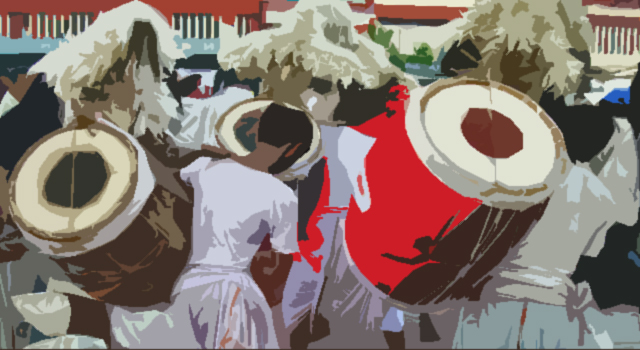
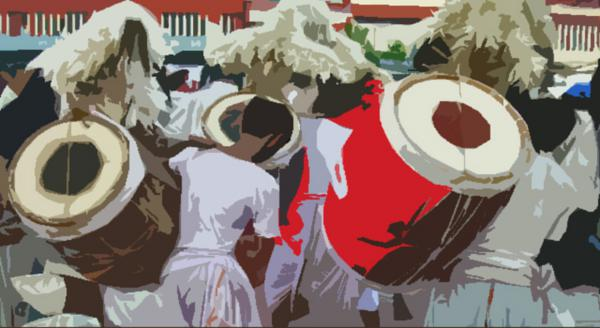
Reduces image sizes for faster load

diff --git a/assets/css/freelancer.min.css b/assets/css/freelancer.min.css
@@ -2,4 +2,4 @@
  * Start Bootstrap - Freelancer v3.3.7+1 (http://startbootstrap.com/template-overviews/freelancer)
  * Copyright 2013-2016 Start Bootstrap
  * Licensed under MIT (https://github.com/BlackrockDigital/startbootstrap/blob/gh-pages/LICENSE)
- */body{font-family:Lato,'Helvetica Neue',Helvetica,Arial,sans-serif;overflow-x:hidden}p{font-size:20px}p.small{font-size:16px}a,a.active,a:active,a:focus,a:hover{color:#18BC9C;outline:0}h1,h2,h3,h4,h5,h6{font-family:Montserrat,"Helvetica Neue",Helvetica,Arial,sans-serif;text-transform:uppercase;font-weight:700}hr.star-light,hr.star-primary{padding:0;border:none;border-top:solid 5px;text-align:center;max-width:250px;margin:25px auto 30px}hr.star-light:after,hr.star-primary:after{content:"\f005";font-family:FontAwesome;display:inline-block;position:relative;top:-.8em;font-size:2em;padding:0 .25em}.navbar-custom,header .intro-text .name{font-family:Montserrat,"Helvetica Neue",Helvetica,Arial,sans-serif;text-transform:uppercase}hr.star-light{border-color:#fff}hr.star-light:after{background-color:#18BC9C;color:#fff}hr.star-primary{border-color:#2C3E50}hr.star-primary:after{background-color:#fff;color:#2C3E50}.navbar-custom .navbar-brand,.navbar-custom .navbar-brand.active,.navbar-custom .navbar-brand:active,.navbar-custom .navbar-brand:focus,.navbar-custom .navbar-brand:hover,.navbar-custom .navbar-nav li a,header{color:#fff}.img-centered{margin:0 auto}header{text-align:center;background:#18BC9C}header .container{padding-top:50px;padding-bottom:50px}header img{display:block;margin:0 auto 20px}header .intro-text .name{display:block;font-weight:700;font-size:2em}header .intro-text .skills{font-size:1.25em;font-weight:300}@media (min-width:768px){header .container{padding-top:200px;padding-bottom:100px}header .intro-text .name{font-size:4.75em}header .intro-text .skills{font-size:1.75em}}.navbar-custom{background:#2C3E50;font-weight:700;border:none}.navbar-custom a:focus{outline:0}.navbar-custom .navbar-nav{letter-spacing:1px}.navbar-custom .navbar-nav li a:hover{color:#18BC9C;outline:0}.navbar-custom .navbar-nav li a:active,.navbar-custom .navbar-nav li a:focus{color:#fff}.navbar-custom .navbar-nav li.active a,.navbar-custom .navbar-nav li.active a:active,.navbar-custom .navbar-nav li.active a:focus,.navbar-custom .navbar-nav li.active a:hover{color:#fff;background:#18BC9C}.navbar-custom .navbar-toggle{color:#fff;text-transform:uppercase;font-size:10px;border-color:#fff}.navbar-custom .navbar-toggle:focus,.navbar-custom .navbar-toggle:hover{background-color:#18BC9C;color:#fff;border-color:#18BC9C}@media (min-width:768px){.navbar-custom{padding:25px 0;-webkit-transition:padding .3s;-moz-transition:padding .3s;transition:padding .3s}.navbar-custom .navbar-brand{font-size:2em;-webkit-transition:all .3s;-moz-transition:all .3s;transition:all .3s}.navbar-custom.affix{padding:10px 0}.navbar-custom.affix .navbar-brand{font-size:1.5em}}section{padding:100px 0}section h2{margin:0;font-size:3em}section.success{background:#18BC9C;color:#fff}@media (max-width:767px){section{padding:75px 0}section.first{padding-top:75px}}#portfolio .portfolio-item{margin:0 0 15px;right:0}#portfolio .portfolio-item .portfolio-link{display:block;position:relative;max-width:400px;margin:0 auto}#portfolio .portfolio-item .portfolio-link .caption{background:rgba(24,188,156,.9);position:absolute;width:100%;height:100%;opacity:0;transition:all ease .5s;-webkit-transition:all ease .5s;-moz-transition:all ease .5s}#portfolio .portfolio-item .portfolio-link .caption:hover{opacity:1}#portfolio .portfolio-item .portfolio-link .caption .caption-content{position:absolute;width:100%;height:20px;font-size:20px;text-align:center;top:50%;margin-top:-12px;color:#fff}.btn-social,.scroll-top,.scroll-top .btn{width:50px;height:50px}#portfolio .portfolio-item .portfolio-link .caption .caption-content i{margin-top:-12px}#portfolio .portfolio-item .portfolio-link .caption .caption-content h3,#portfolio .portfolio-item .portfolio-link .caption .caption-content h4{margin:0}#portfolio *{z-index:2}@media (min-width:767px){#portfolio .portfolio-item{margin:0 0 30px}}.floating-label-form-group{position:relative;margin-bottom:0;padding-bottom:.5em;border-bottom:1px solid #eee}.floating-label-form-group input,.floating-label-form-group textarea{z-index:1;position:relative;padding-right:0;padding-left:0;border:none;border-radius:0;font-size:1.5em;background:0 0;box-shadow:none!important;resize:none}.floating-label-form-group label{display:block;z-index:0;position:relative;top:2em;margin:0;font-size:.85em;line-height:1.764705882em;vertical-align:middle;vertical-align:baseline;opacity:0;-webkit-transition:top .3s ease,opacity .3s ease;-moz-transition:top .3s ease,opacity .3s ease;-ms-transition:top .3s ease,opacity .3s ease;transition:top .3s ease,opacity .3s ease}.floating-label-form-group:not(:first-child){padding-left:14px;border-left:1px solid #eee}.floating-label-form-group-with-value label{top:0;opacity:1}.floating-label-form-group-with-focus label{color:#18BC9C}form .row:first-child .floating-label-form-group{border-top:1px solid #eee}footer{color:#fff}footer h3{margin-bottom:30px}footer .footer-above{padding-top:50px;background-color:#2C3E50}footer .footer-col{margin-bottom:50px}footer .footer-below{padding:25px 0;background-color:#233140}.btn-outline{color:#fff;font-size:20px;border:2px solid #fff;background:0 0;transition:all .3s ease-in-out;margin-top:15px}.btn-outline.active,.btn-outline:active,.btn-outline:focus,.btn-outline:hover{color:#18BC9C;background:#fff;border:2px solid #fff}.btn-primary.active,.btn-primary:active,.btn-success.active,.btn-success:active,.open .dropdown-toggle.btn-primary,.open .dropdown-toggle.btn-success{background-image:none}.btn-primary{color:#fff;background-color:#2C3E50;border-color:#2C3E50;font-weight:700}.btn-primary.active,.btn-primary:active,.btn-primary:focus,.btn-primary:hover,.open .dropdown-toggle.btn-primary{color:#fff;background-color:#1a242f;border-color:#161f29}.btn-primary.disabled,.btn-primary.disabled.active,.btn-primary.disabled:active,.btn-primary.disabled:focus,.btn-primary.disabled:hover,.btn-primary[disabled],.btn-primary[disabled].active,.btn-primary[disabled]:active,.btn-primary[disabled]:focus,.btn-primary[disabled]:hover,fieldset[disabled] .btn-primary,fieldset[disabled] .btn-primary.active,fieldset[disabled] .btn-primary:active,fieldset[disabled] .btn-primary:focus,fieldset[disabled] .btn-primary:hover{background-color:#2C3E50;border-color:#2C3E50}.btn-primary .badge{color:#2C3E50;background-color:#fff}.btn-success{color:#fff;background-color:#18BC9C;border-color:#18BC9C;font-weight:700}.btn-success.active,.btn-success:active,.btn-success:focus,.btn-success:hover,.open .dropdown-toggle.btn-success{color:#fff;background-color:#128f76;border-color:#11866f}.btn-success.disabled,.btn-success.disabled.active,.btn-success.disabled:active,.btn-success.disabled:focus,.btn-success.disabled:hover,.btn-success[disabled],.btn-success[disabled].active,.btn-success[disabled]:active,.btn-success[disabled]:focus,.btn-success[disabled]:hover,fieldset[disabled] .btn-success,fieldset[disabled] .btn-success.active,fieldset[disabled] .btn-success:active,fieldset[disabled] .btn-success:focus,fieldset[disabled] .btn-success:hover{background-color:#18BC9C;border-color:#18BC9C}.btn-success .badge{color:#18BC9C;background-color:#fff}.btn-social{display:inline-block;border:2px solid #fff;border-radius:100%;text-align:center;font-size:20px;line-height:45px}.btn.active,.btn:active,.btn:focus{outline:0}.scroll-top{position:fixed;right:2%;bottom:2%;z-index:1049}.scroll-top .btn{font-size:20px;border-radius:100%;line-height:28px}.scroll-top .btn:focus{outline:0}.portfolio-modal .modal-content{border-radius:0;background-clip:border-box;-webkit-box-shadow:none;box-shadow:none;border:none;min-height:100%;padding:100px 0;text-align:center}.portfolio-modal .modal-content h2{margin:0;font-size:3em}.portfolio-modal .modal-content img{margin-bottom:30px}.portfolio-modal .modal-content .item-details{margin:30px 0}.portfolio-modal .close-modal{position:absolute;width:75px;height:75px;background-color:transparent;top:25px;right:25px;cursor:pointer}.portfolio-modal .close-modal:hover{opacity:.3}.portfolio-modal .close-modal .lr{height:75px;width:1px;margin-left:35px;background-color:#2C3E50;transform:rotate(45deg);-ms-transform:rotate(45deg);-webkit-transform:rotate(45deg);z-index:1051}.portfolio-modal .close-modal .lr .rl{height:75px;width:1px;background-color:#2C3E50;transform:rotate(90deg);-ms-transform:rotate(90deg);-webkit-transform:rotate(90deg);z-index:1052}.portfolio-modal .modal-backdrop{opacity:0;display:none}
+ */body{font-family:Lato,'Helvetica Neue',Helvetica,Arial,sans-serif;overflow-x:hidden}p{font-size:20px}p.small{font-size:16px}a,a.active,a:active,a:focus,a:hover{color:#18BC9C;outline:0}h1,h2,h3,h4,h5,h6{font-family:Montserrat,"Helvetica Neue",Helvetica,Arial,sans-serif;text-transform:uppercase;font-weight:700}hr.star-light,hr.star-primary{padding:0;border:none;border-top:solid 5px;text-align:center;max-width:250px;margin:25px auto 30px}hr.star-light:after,hr.star-primary:after{content:"\f005";font-family:FontAwesome;display:inline-block;position:relative;top:-.8em;font-size:2em;padding:0 .25em}.navbar-custom,header .intro-text .name{font-family:Montserrat,"Helvetica Neue",Helvetica,Arial,sans-serif;text-transform:uppercase}hr.star-light{border-color:#fff}hr.star-light:after{background-color:#18BC9C;color:#fff}hr.star-primary{border-color:#2C3E50}hr.star-primary:after{background-color:#fff;color:#2C3E50}.navbar-custom .navbar-brand,.navbar-custom .navbar-brand.active,.navbar-custom .navbar-brand:active,.navbar-custom .navbar-brand:focus,.navbar-custom .navbar-brand:hover,.navbar-custom .navbar-nav li a,header{color:#fff}.img-centered{margin:0 auto}header{text-align:center;background:#18BC9C}header .container{padding-top:50px;padding-bottom:50px}header img{display:block;margin:0 auto 20px}header .intro-text .name{display:block;font-weight:700;font-size:2em}header .intro-text .skills{font-size:1.25em;font-weight:300}@media (min-width:768px){header .container{padding-top:200px;padding-bottom:100px}header .intro-text .name{font-size:4.75em}header .intro-text .skills{font-size:1.75em}}.navbar-custom{background:#2C3E50;font-weight:700;border:none}.navbar-custom a:focus{outline:0}.navbar-custom .navbar-nav{letter-spacing:1px}.navbar-custom .navbar-nav li a:hover{color:#18BC9C;outline:0}.navbar-custom .navbar-nav li a:active,.navbar-custom .navbar-nav li a:focus{color:#fff}.navbar-custom .navbar-nav li.active a,.navbar-custom .navbar-nav li.active a:active,.navbar-custom .navbar-nav li.active a:focus,.navbar-custom .navbar-nav li.active a:hover{color:#fff;background:#18BC9C}.navbar-custom .navbar-toggle{color:#fff;text-transform:uppercase;font-size:10px;border-color:#fff}.navbar-custom .navbar-toggle:focus,.navbar-custom .navbar-toggle:hover{background-color:#18BC9C;color:#fff;border-color:#18BC9C}@media (min-width:768px){.navbar-custom{padding:25px 0;-webkit-transition:padding .3s;-moz-transition:padding .3s;transition:padding .3s}.navbar-custom .navbar-brand{font-size:2em;-webkit-transition:all .3s;-moz-transition:all .3s;transition:all .3s}.navbar-custom.affix{padding:10px 0}.navbar-custom.affix .navbar-brand{font-size:1.5em}}section{padding:100px 0}section h2{margin:0;font-size:3em}section.success{background:#18BC9C;color:#fff}@media (max-width:767px){section{padding:75px 0}section.first{padding-top:75px}}#portfolio .portfolio-item{margin:0 0 15px;right:0}#portfolio .portfolio-item .portfolio-link{display:block;position:relative;max-width:300px;margin:0 auto}#portfolio .portfolio-item .portfolio-link .caption{background:rgba(24,188,156,.9);position:absolute;width:100%;height:100%;opacity:0;transition:all ease .5s;-webkit-transition:all ease .5s;-moz-transition:all ease .5s}#portfolio .portfolio-item .portfolio-link .caption:hover{opacity:1}#portfolio .portfolio-item .portfolio-link .caption .caption-content{position:absolute;width:100%;height:20px;font-size:20px;text-align:center;top:50%;margin-top:-12px;color:#fff}.btn-social,.scroll-top,.scroll-top .btn{width:50px;height:50px}#portfolio .portfolio-item .portfolio-link .caption .caption-content i{margin-top:-12px}#portfolio .portfolio-item .portfolio-link .caption .caption-content h3,#portfolio .portfolio-item .portfolio-link .caption .caption-content h4{margin:0}#portfolio *{z-index:2}@media (min-width:767px){#portfolio .portfolio-item{margin:0 0 30px}}.floating-label-form-group{position:relative;margin-bottom:0;padding-bottom:.5em;border-bottom:1px solid #eee}.floating-label-form-group input,.floating-label-form-group textarea{z-index:1;position:relative;padding-right:0;padding-left:0;border:none;border-radius:0;font-size:1.5em;background:0 0;box-shadow:none!important;resize:none}.floating-label-form-group label{display:block;z-index:0;position:relative;top:2em;margin:0;font-size:.85em;line-height:1.764705882em;vertical-align:middle;vertical-align:baseline;opacity:0;-webkit-transition:top .3s ease,opacity .3s ease;-moz-transition:top .3s ease,opacity .3s ease;-ms-transition:top .3s ease,opacity .3s ease;transition:top .3s ease,opacity .3s ease}.floating-label-form-group:not(:first-child){padding-left:14px;border-left:1px solid #eee}.floating-label-form-group-with-value label{top:0;opacity:1}.floating-label-form-group-with-focus label{color:#18BC9C}form .row:first-child .floating-label-form-group{border-top:1px solid #eee}footer{color:#fff}footer h3{margin-bottom:30px}footer .footer-above{padding-top:50px;background-color:#2C3E50}footer .footer-col{margin-bottom:50px}footer .footer-below{padding:25px 0;background-color:#233140}.btn-outline{color:#fff;font-size:20px;border:2px solid #fff;background:0 0;transition:all .3s ease-in-out;margin-top:15px}.btn-outline.active,.btn-outline:active,.btn-outline:focus,.btn-outline:hover{color:#18BC9C;background:#fff;border:2px solid #fff}.btn-primary.active,.btn-primary:active,.btn-success.active,.btn-success:active,.open .dropdown-toggle.btn-primary,.open .dropdown-toggle.btn-success{background-image:none}.btn-primary{color:#fff;background-color:#2C3E50;border-color:#2C3E50;font-weight:700}.btn-primary.active,.btn-primary:active,.btn-primary:focus,.btn-primary:hover,.open .dropdown-toggle.btn-primary{color:#fff;background-color:#1a242f;border-color:#161f29}.btn-primary.disabled,.btn-primary.disabled.active,.btn-primary.disabled:active,.btn-primary.disabled:focus,.btn-primary.disabled:hover,.btn-primary[disabled],.btn-primary[disabled].active,.btn-primary[disabled]:active,.btn-primary[disabled]:focus,.btn-primary[disabled]:hover,fieldset[disabled] .btn-primary,fieldset[disabled] .btn-primary.active,fieldset[disabled] .btn-primary:active,fieldset[disabled] .btn-primary:focus,fieldset[disabled] .btn-primary:hover{background-color:#2C3E50;border-color:#2C3E50}.btn-primary .badge{color:#2C3E50;background-color:#fff}.btn-success{color:#fff;background-color:#18BC9C;border-color:#18BC9C;font-weight:700}.btn-success.active,.btn-success:active,.btn-success:focus,.btn-success:hover,.open .dropdown-toggle.btn-success{color:#fff;background-color:#128f76;border-color:#11866f}.btn-success.disabled,.btn-success.disabled.active,.btn-success.disabled:active,.btn-success.disabled:focus,.btn-success.disabled:hover,.btn-success[disabled],.btn-success[disabled].active,.btn-success[disabled]:active,.btn-success[disabled]:focus,.btn-success[disabled]:hover,fieldset[disabled] .btn-success,fieldset[disabled] .btn-success.active,fieldset[disabled] .btn-success:active,fieldset[disabled] .btn-success:focus,fieldset[disabled] .btn-success:hover{background-color:#18BC9C;border-color:#18BC9C}.btn-success .badge{color:#18BC9C;background-color:#fff}.btn-social{display:inline-block;border:2px solid #fff;border-radius:100%;text-align:center;font-size:20px;line-height:45px}.btn.active,.btn:active,.btn:focus{outline:0}.scroll-top{position:fixed;right:2%;bottom:2%;z-index:1049}.scroll-top .btn{font-size:20px;border-radius:100%;line-height:28px}.scroll-top .btn:focus{outline:0}.portfolio-modal .modal-content{border-radius:0;background-clip:border-box;-webkit-box-shadow:none;box-shadow:none;border:none;min-height:100%;padding:100px 0;text-align:center}.portfolio-modal .modal-content h2{margin:0;font-size:3em}.portfolio-modal .modal-content img{margin-bottom:30px}.portfolio-modal .modal-content .item-details{margin:30px 0}.portfolio-modal .close-modal{position:absolute;width:75px;height:75px;background-color:transparent;top:25px;right:25px;cursor:pointer}.portfolio-modal .close-modal:hover{opacity:.3}.portfolio-modal .close-modal .lr{height:75px;width:1px;margin-left:35px;background-color:#2C3E50;transform:rotate(45deg);-ms-transform:rotate(45deg);-webkit-transform:rotate(45deg);z-index:1051}.portfolio-modal .close-modal .lr .rl{height:75px;width:1px;background-color:#2C3E50;transform:rotate(90deg);-ms-transform:rotate(90deg);-webkit-transform:rotate(90deg);z-index:1052}.portfolio-modal .modal-backdrop{opacity:0;display:none}

diff --git a/index.html b/index.html
@@ -163,7 +163,7 @@
                     	<a href="#portfolioModal4" class="portfolio-link" data-toggle="modal">
                         	<div class="caption">
                             	<div class="caption-content">
-                                	<i class="fa fa-play-circle fa-3x"></i>
+                                	<i id="audiodiv" class="fa fa-play-circle fa-3x"></i>
                             	</div>
                         	</div>
                         	<img src="./assets/images/mahalaya.jpg" class="img-responsive" alt="">
@@ -253,7 +253,7 @@
                                 <h3>Mahalaya Sound Track</h3>
                                 <hr>
                                   <img src="./assets/images/mahalaya1.jpg">
-                                  <audio controls>
+                                  <audio id="myAudio" controls>
                                     <source src="./assets/audio/mahalaya.mp3" type="audio/mpeg">
                                         Your browser does not support the audio element.
                                     </audio>
@@ -265,6 +265,21 @@
                 </div>
             </div>
         </div>
+        <script type="text/javascript">
+          document.getElementById('myAudio').onclick = function(){
+            console.log("Hi");
+          }
+          function switchIcon() {
+            // var myAudio = document.getElementById('myAudioID');
+            // if (myAudio.duration > 0 && !myAudio.paused) {
+              // document.getElementById("audiodiv").className = "fa fa-stop-circle-o fa-3x";
+            // }else{
+              // document.getElementById("audiodiv").className = "fa fa-play-circle fa-3x";
+              // alert("Paused");
+              console.log("Triggered");
+            
+          }
+        </script>
         <script>
           var map;        
             var myCenter=new google.maps.LatLng(53, -1.33);

diff --git a/gulpfile.js b/gulpfile.js
@@ -1,0 +1,52 @@
+var gulp = require('gulp');
+var imageResize = require('gulp-image-resize');
+
+sourceImage600 = ['./assets/images/coverflow.jpg',
+					'./assets/images/durga2.jpg',
+					'./assets/images/durga3.jpg',
+					'./assets/images/durga4.jpg',
+					'./assets/images/durga5.jpg',
+					'./assets/images/durga6.jpg',
+					'./assets/images/durga7.jpg',
+					'./assets/images/durga8.jpg',
+					'./assets/images/durga10.jpg'
+]
+
+sourceImage300 = ['./assets/images/venue.png',
+					'./assets/images/duty.png',
+					'./assets/images/gallery.png',
+					'./assets/images/mahalaya.jpg'
+]
+
+gulp.task('default', function () {
+  gulp.src(sourceImage600)
+    .pipe(imageResize({
+      width : 600,
+      crop : false,
+      upscale : false,
+      quality : 0
+    }))
+    .pipe(gulp.dest('./assets/images/newresized'));
+});
+
+gulp.task('resizebgimg', function() {
+	gulp.src('./assets/images/coverimage.jpg')
+		.pipe(imageResize({
+			width : 1200,
+			crop : false,
+			upscale : false,
+			qualilty : 5
+		}))
+		.pipe(gulp.dest('./assets/images/newresized'))
+})
+
+gulp.task('resizeport', function() {
+	gulp.src(sourceImage300)
+		.pipe(imageResize({
+			width : 300,
+			crop : false,
+			upscale : false,
+			qualilty : 0
+		}))
+		.pipe(gulp.dest('./assets/images/newresized'))
+})

diff --git a/assets/css/style.css b/assets/css/style.css
@@ -3,6 +3,7 @@ body {
 	color: #271033;
 	font-size: 20px;
 	padding: 10px;
+	background-size: 100%;
 }
 h1, h2, h3 {
 	text-align: center;
